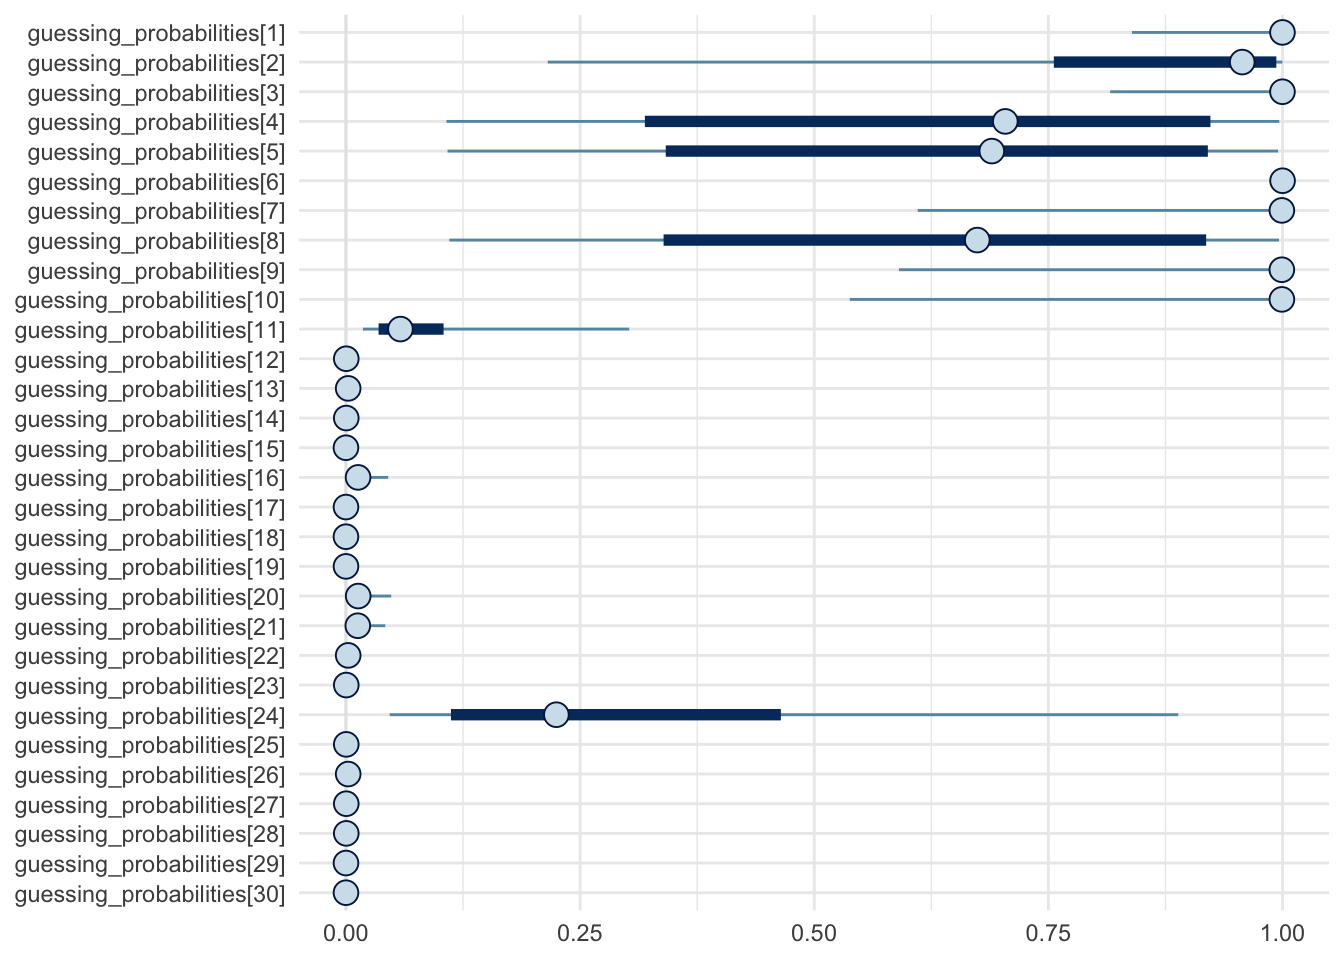
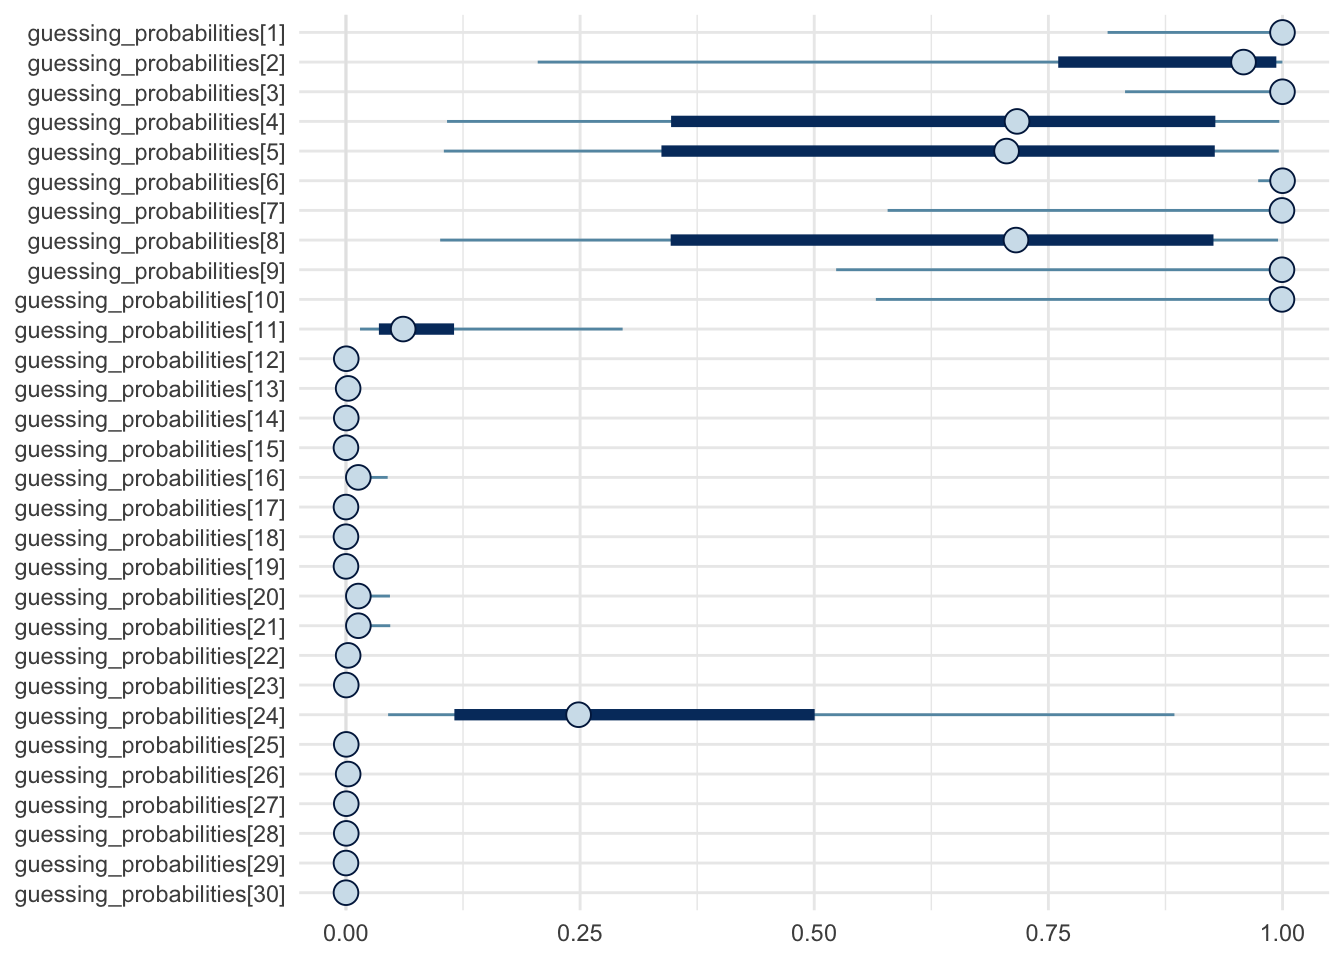
Built site for gh-pages

diff --git a/w10_modelling/topic07_mixtures.html b/w10_modelling/topic07_mixtures.html
@@ -1093,19 +1093,22 @@ is the correct answer.
 <span id="annotated-cell-3-7"><a href="#annotated-cell-3-7" aria-hidden="true" tabindex="-1"></a>}</span>
 <span id="annotated-cell-3-8"><a href="#annotated-cell-3-8" aria-hidden="true" tabindex="-1"></a></span>
 <span id="annotated-cell-3-9"><a href="#annotated-cell-3-9" aria-hidden="true" tabindex="-1"></a><span class="kw">transformed parameters</span> {</span>
-<a class="code-annotation-anchor" data-target-cell="annotated-cell-3" data-target-annotation="1" onclick="event.preventDefault();">1</a><span id="annotated-cell-3-10" class="code-annotation-target"><a href="#annotated-cell-3-10" aria-hidden="true" tabindex="-1"></a>  <span class="dt">real</span> complete_likelihood_guessing      = <span class="fl">1.0</span>/<span class="dv">3</span> * exp(binomial_lpmf(score | <span class="dv">20</span>, <span class="fl">0.5</span>));</span>
-<a class="code-annotation-anchor" data-target-cell="annotated-cell-3" data-target-annotation="2" onclick="event.preventDefault();">2</a><span id="annotated-cell-3-11" class="code-annotation-target"><a href="#annotated-cell-3-11" aria-hidden="true" tabindex="-1"></a>  <span class="dt">real</span> complete_likelihood_non_guessing  = <span class="fl">2.0</span>/<span class="dv">3</span> * exp(binomial_lpmf(score | <span class="dv">20</span>, ability));</span>
-<span id="annotated-cell-3-12"><a href="#annotated-cell-3-12" aria-hidden="true" tabindex="-1"></a>}</span>
-<span id="annotated-cell-3-13"><a href="#annotated-cell-3-13" aria-hidden="true" tabindex="-1"></a></span>
-<span id="annotated-cell-3-14"><a href="#annotated-cell-3-14" aria-hidden="true" tabindex="-1"></a><span class="kw">model</span> {</span>
-<a class="code-annotation-anchor" data-target-cell="annotated-cell-3" data-target-annotation="3" onclick="event.preventDefault();">3</a><span id="annotated-cell-3-15" class="code-annotation-target"><a href="#annotated-cell-3-15" aria-hidden="true" tabindex="-1"></a>  ability ~ uniform(<span class="dv">0</span>, <span class="dv">1</span>);</span>
-<a class="code-annotation-anchor" data-target-cell="annotated-cell-3" data-target-annotation="4" onclick="event.preventDefault();">4</a><span id="annotated-cell-3-16" class="code-annotation-target"><a href="#annotated-cell-3-16" aria-hidden="true" tabindex="-1"></a>  <span class="kw">target +=</span> log(complete_likelihood_guessing + complete_likelihood_non_guessing);</span>
-<span id="annotated-cell-3-17"><a href="#annotated-cell-3-17" aria-hidden="true" tabindex="-1"></a>}</span>
-<span id="annotated-cell-3-18"><a href="#annotated-cell-3-18" aria-hidden="true" tabindex="-1"></a></span>
-<span id="annotated-cell-3-19"><a href="#annotated-cell-3-19" aria-hidden="true" tabindex="-1"></a><span class="kw">generated quantities</span> {</span>
-<a class="code-annotation-anchor" data-target-cell="annotated-cell-3" data-target-annotation="5" onclick="event.preventDefault();">5</a><span id="annotated-cell-3-20" class="code-annotation-target"><a href="#annotated-cell-3-20" aria-hidden="true" tabindex="-1"></a>  <span class="dt">real</span> guessing_probability =</span>
-<span id="annotated-cell-3-21"><a href="#annotated-cell-3-21" aria-hidden="true" tabindex="-1"></a>    complete_likelihood_guessing / (complete_likelihood_guessing + complete_likelihood_non_guessing);</span>
-<span id="annotated-cell-3-22"><a href="#annotated-cell-3-22" aria-hidden="true" tabindex="-1"></a>}</span><div class="code-annotation-gutter-bg"></div><div class="code-annotation-gutter"></div></code><button title="Copy to Clipboard" class="code-copy-button"><i class="bi"></i></button></pre></div>
+<a class="code-annotation-anchor" data-target-cell="annotated-cell-3" data-target-annotation="1" onclick="event.preventDefault();">1</a><span id="annotated-cell-3-10" class="code-annotation-target"><a href="#annotated-cell-3-10" aria-hidden="true" tabindex="-1"></a>  <span class="dt">real</span> complete_likelihood_guessing</span>
+<span id="annotated-cell-3-11"><a href="#annotated-cell-3-11" aria-hidden="true" tabindex="-1"></a>    = <span class="fl">1.0</span>/<span class="dv">3</span> * exp(binomial_lpmf(score | <span class="dv">20</span>, <span class="fl">0.5</span>)); </span>
+<a class="code-annotation-anchor" data-target-cell="annotated-cell-3" data-target-annotation="2" onclick="event.preventDefault();">2</a><span id="annotated-cell-3-12" class="code-annotation-target"><a href="#annotated-cell-3-12" aria-hidden="true" tabindex="-1"></a>  <span class="dt">real</span> complete_likelihood_non_guessing</span>
+<span id="annotated-cell-3-13"><a href="#annotated-cell-3-13" aria-hidden="true" tabindex="-1"></a>    = <span class="fl">2.0</span>/<span class="dv">3</span> * exp(binomial_lpmf(score | <span class="dv">20</span>, ability)); </span>
+<span id="annotated-cell-3-14"><a href="#annotated-cell-3-14" aria-hidden="true" tabindex="-1"></a>}</span>
+<span id="annotated-cell-3-15"><a href="#annotated-cell-3-15" aria-hidden="true" tabindex="-1"></a></span>
+<span id="annotated-cell-3-16"><a href="#annotated-cell-3-16" aria-hidden="true" tabindex="-1"></a><span class="kw">model</span> {</span>
+<a class="code-annotation-anchor" data-target-cell="annotated-cell-3" data-target-annotation="3" onclick="event.preventDefault();">3</a><span id="annotated-cell-3-17" class="code-annotation-target"><a href="#annotated-cell-3-17" aria-hidden="true" tabindex="-1"></a>  ability ~ uniform(<span class="dv">0</span>, <span class="dv">1</span>);</span>
+<a class="code-annotation-anchor" data-target-cell="annotated-cell-3" data-target-annotation="4" onclick="event.preventDefault();">4</a><span id="annotated-cell-3-18" class="code-annotation-target"><a href="#annotated-cell-3-18" aria-hidden="true" tabindex="-1"></a>  <span class="kw">target +=</span></span>
+<span id="annotated-cell-3-19"><a href="#annotated-cell-3-19" aria-hidden="true" tabindex="-1"></a>    log(complete_likelihood_guessing + complete_likelihood_non_guessing); </span>
+<span id="annotated-cell-3-20"><a href="#annotated-cell-3-20" aria-hidden="true" tabindex="-1"></a>}</span>
+<span id="annotated-cell-3-21"><a href="#annotated-cell-3-21" aria-hidden="true" tabindex="-1"></a></span>
+<span id="annotated-cell-3-22"><a href="#annotated-cell-3-22" aria-hidden="true" tabindex="-1"></a><span class="kw">generated quantities</span> {</span>
+<a class="code-annotation-anchor" data-target-cell="annotated-cell-3" data-target-annotation="5" onclick="event.preventDefault();">5</a><span id="annotated-cell-3-23" class="code-annotation-target"><a href="#annotated-cell-3-23" aria-hidden="true" tabindex="-1"></a>  <span class="dt">real</span> guessing_probability =</span>
+<span id="annotated-cell-3-24"><a href="#annotated-cell-3-24" aria-hidden="true" tabindex="-1"></a>    complete_likelihood_guessing / (complete_likelihood_guessing + complete_likelihood_non_guessing);</span>
+<span id="annotated-cell-3-25"><a href="#annotated-cell-3-25" aria-hidden="true" tabindex="-1"></a>}</span><div class="code-annotation-gutter-bg"></div><div class="code-annotation-gutter"></div></code><button title="Copy to Clipboard" class="code-copy-button"><i class="bi"></i></button></pre></div>
 <div class="cell-annotation">
 <dl class="code-annotation-container-grid">
 <dt data-target-cell="annotated-cell-3" data-target-annotation="1">1</dt>
@@ -1114,19 +1117,19 @@ is the correct answer.
 </dd>
 <dt data-target-cell="annotated-cell-3" data-target-annotation="2">2</dt>
 <dd>
-<span data-code-cell="annotated-cell-3" data-code-lines="11" data-code-annotation="2">Stan statement 2</span>
+<span data-code-cell="annotated-cell-3" data-code-lines="12" data-code-annotation="2">Stan statement 2</span>
 </dd>
 <dt data-target-cell="annotated-cell-3" data-target-annotation="3">3</dt>
 <dd>
-<span data-code-cell="annotated-cell-3" data-code-lines="15" data-code-annotation="3">Stan statement 3</span>
+<span data-code-cell="annotated-cell-3" data-code-lines="17" data-code-annotation="3">Stan statement 3</span>
 </dd>
 <dt data-target-cell="annotated-cell-3" data-target-annotation="4">4</dt>
 <dd>
-<span data-code-cell="annotated-cell-3" data-code-lines="16" data-code-annotation="4">Stan statement 4</span>
+<span data-code-cell="annotated-cell-3" data-code-lines="18" data-code-annotation="4">Stan statement 4</span>
 </dd>
 <dt data-target-cell="annotated-cell-3" data-target-annotation="5">5</dt>
 <dd>
-<span data-code-cell="annotated-cell-3" data-code-lines="20" data-code-annotation="5">Stan statement 5</span>
+<span data-code-cell="annotated-cell-3" data-code-lines="23" data-code-annotation="5">Stan statement 5</span>
 </dd>
 </dl>
 </div>
@@ -1141,11 +1144,11 @@ is the correct answer.
 <li>Let us look at the part in red, and see how we can compute it at every MCMC iteration based on the current value of <span class="math inline">\(A^{(m)}\)</span>…
 <ul>
 <li>Using the fact the mean of a Bernoulli is the probability that it takes value 1: <span class="math display">\[\mathbb{E}[G | A, Y] = \mathbb{P}(G = 1 | A, Y).\]</span></li>
-<li>By Bayes rule: <span class="math display">\[\mathbb{P}(G = 1 | A, Y) = \frac{\mathbb{P}(G = 1 | A, Y)}{\mathbb{P}(G = 0 | A, Y) + \mathbb{P}(G = 1 | A, Y)}.\]</span></li>
+<li>By Bayes rule (noting that a conditional probability like <span class="math inline">\(\mathbb{P}(\cdot | A)\)</span> <a href="../w01_discrete_inference/topic07_conditional.html#a-conditional-probability-is-a-probability">is a probability</a>): <span class="math display">\[\mathbb{P}(G = 1 | A, Y = y) = \frac{\mathbb{P}(G = 1, Y = y | A)}{\mathbb{P}(G = 0, Y = y | A) + \mathbb{P}(G = 1, Y = y | A)}.\]</span></li>
 <li>This is what gets computed in statement ⑤ in the above Stan code.</li>
 </ul></li>
-<li>Now, recall from the <a href="../w08_mcmc1/topic05_mcmc_consistency.html">LLN for Markov chains</a> gives us condition so that for a test function <span class="math inline">\(h\)</span>, we have that the Monte Carlo samples, <span class="math inline">\(A^{(1)}, A^{(2)}, \dots, A^{(M)}\)</span> satisfy, <span class="math display">\[\frac{1}{M} \sum_{m=1}^M h(A^{(m)}) \to \mathbb{E}[h(A) | Y],\]</span> with probability one.</li>
-<li>Therefore from taking <span class="math inline">\(h(a) = \mathbb{P}(G = 1 | A = a, Y)\)</span>, we obtain, <span class="math display">\[\frac{1}{M} \sum_{m=1}^M \mathbb{P}(G = 1 | A^{(m)}, Y = y) \to \mathbb{E}[G | Y],\]</span> with probability one.</li>
+<li>Now, recall from the <a href="../w08_mcmc1/topic05_mcmc_consistency.html">LLN for Markov chains</a> gives us condition so that for a test function <span class="math inline">\(h\)</span>, we have that the Monte Carlo samples, <span class="math inline">\(A^{(1)}, A^{(2)}, \dots, A^{(M)}\)</span> satisfy, <span class="math display">\[\frac{1}{M} \sum_{m=1}^M h(A^{(m)}) \to \mathbb{E}[h(A) | Y = y],\]</span> with probability one.</li>
+<li>Therefore from taking <span class="math inline">\(h(A^{(m)}) = \mathbb{P}(G = 1 | A^{(m)}, Y = y)\)</span>, we obtain, <span class="math display">\[\frac{1}{M} \sum_{m=1}^M \mathbb{P}(G = 1 | A^{(m)}, Y = y) \to \mathbb{E}[G | Y = y],\]</span> with probability one.</li>
 </ul>
 </section>
 <section id="testing-the-model" class="level3">
@@ -1236,24 +1239,28 @@ Click for answer
 <span id="cb7-14"><a href="#cb7-14" aria-hidden="true" tabindex="-1"></a>  <span class="dt">vector</span>[n_students] complete_loglikelihood_guessing; </span>
 <span id="cb7-15"><a href="#cb7-15" aria-hidden="true" tabindex="-1"></a>  <span class="dt">vector</span>[n_students] complete_loglikelihood_non_guessing; </span>
 <span id="cb7-16"><a href="#cb7-16" aria-hidden="true" tabindex="-1"></a>  <span class="cf">for</span> (i <span class="cf">in</span> <span class="dv">1</span>:n_students) {</span>
-<span id="cb7-17"><a href="#cb7-17" aria-hidden="true" tabindex="-1"></a>    complete_loglikelihood_guessing[i]     = log(fraction_guessing)    + binomial_lpmf(scores[i] | <span class="dv">20</span>, <span class="fl">0.5</span>); </span>
-<span id="cb7-18"><a href="#cb7-18" aria-hidden="true" tabindex="-1"></a>    complete_loglikelihood_non_guessing[i] = log1p(-fraction_guessing) + binomial_lpmf(scores[i] | <span class="dv">20</span>, abilities[i]);</span>
-<span id="cb7-19"><a href="#cb7-19" aria-hidden="true" tabindex="-1"></a>  }</span>
-<span id="cb7-20"><a href="#cb7-20" aria-hidden="true" tabindex="-1"></a>}</span>
-<span id="cb7-21"><a href="#cb7-21" aria-hidden="true" tabindex="-1"></a></span>
-<span id="cb7-22"><a href="#cb7-22" aria-hidden="true" tabindex="-1"></a><span class="kw">model</span> {</span>
-<span id="cb7-23"><a href="#cb7-23" aria-hidden="true" tabindex="-1"></a>  fraction_guessing ~ uniform(<span class="dv">0</span>, <span class="dv">1</span>);</span>
-<span id="cb7-24"><a href="#cb7-24" aria-hidden="true" tabindex="-1"></a>  non_guessing_population_mean ~ uniform(<span class="dv">0</span>, <span class="dv">1</span>);</span>
-<span id="cb7-25"><a href="#cb7-25" aria-hidden="true" tabindex="-1"></a>  non_guessing_population_spread ~ exponential(<span class="fl">1.0</span>/<span class="dv">100</span>);</span>
-<span id="cb7-26"><a href="#cb7-26" aria-hidden="true" tabindex="-1"></a>  <span class="cf">for</span> (i <span class="cf">in</span> <span class="dv">1</span>:n_students) {</span>
-<span id="cb7-27"><a href="#cb7-27" aria-hidden="true" tabindex="-1"></a>    abilities[i] ~ beta_proportion(non_guessing_population_mean, non_guessing_population_spread);</span>
-<span id="cb7-28"><a href="#cb7-28" aria-hidden="true" tabindex="-1"></a>    <span class="kw">target +=</span> log_sum_exp(complete_loglikelihood_guessing[i], complete_loglikelihood_non_guessing[i]);</span>
-<span id="cb7-29"><a href="#cb7-29" aria-hidden="true" tabindex="-1"></a>  }</span>
-<span id="cb7-30"><a href="#cb7-30" aria-hidden="true" tabindex="-1"></a>}</span>
-<span id="cb7-31"><a href="#cb7-31" aria-hidden="true" tabindex="-1"></a></span>
-<span id="cb7-32"><a href="#cb7-32" aria-hidden="true" tabindex="-1"></a><span class="kw">generated quantities</span> {</span>
-<span id="cb7-33"><a href="#cb7-33" aria-hidden="true" tabindex="-1"></a>  <span class="dt">vector</span>[n_students] guessing_probabilities = inv_logit(complete_loglikelihood_guessing - complete_loglikelihood_non_guessing);</span>
-<span id="cb7-34"><a href="#cb7-34" aria-hidden="true" tabindex="-1"></a>}</span></code><button title="Copy to Clipboard" class="code-copy-button"><i class="bi"></i></button></pre></div>
+<span id="cb7-17"><a href="#cb7-17" aria-hidden="true" tabindex="-1"></a>    complete_loglikelihood_guessing[i]     </span>
+<span id="cb7-18"><a href="#cb7-18" aria-hidden="true" tabindex="-1"></a>      = log(fraction_guessing) + binomial_lpmf(scores[i] | <span class="dv">20</span>, <span class="fl">0.5</span>); </span>
+<span id="cb7-19"><a href="#cb7-19" aria-hidden="true" tabindex="-1"></a>    complete_loglikelihood_non_guessing[i] </span>
+<span id="cb7-20"><a href="#cb7-20" aria-hidden="true" tabindex="-1"></a>      = log1p(-fraction_guessing) + binomial_lpmf(scores[i] | <span class="dv">20</span>, abilities[i]);</span>
+<span id="cb7-21"><a href="#cb7-21" aria-hidden="true" tabindex="-1"></a>  }</span>
+<span id="cb7-22"><a href="#cb7-22" aria-hidden="true" tabindex="-1"></a>}</span>
+<span id="cb7-23"><a href="#cb7-23" aria-hidden="true" tabindex="-1"></a></span>
+<span id="cb7-24"><a href="#cb7-24" aria-hidden="true" tabindex="-1"></a><span class="kw">model</span> {</span>
+<span id="cb7-25"><a href="#cb7-25" aria-hidden="true" tabindex="-1"></a>  fraction_guessing ~ uniform(<span class="dv">0</span>, <span class="dv">1</span>);</span>
+<span id="cb7-26"><a href="#cb7-26" aria-hidden="true" tabindex="-1"></a>  non_guessing_population_mean ~ uniform(<span class="dv">0</span>, <span class="dv">1</span>);</span>
+<span id="cb7-27"><a href="#cb7-27" aria-hidden="true" tabindex="-1"></a>  non_guessing_population_spread ~ exponential(<span class="fl">1.0</span>/<span class="dv">100</span>);</span>
+<span id="cb7-28"><a href="#cb7-28" aria-hidden="true" tabindex="-1"></a>  <span class="cf">for</span> (i <span class="cf">in</span> <span class="dv">1</span>:n_students) {</span>
+<span id="cb7-29"><a href="#cb7-29" aria-hidden="true" tabindex="-1"></a>    abilities[i] ~ beta_proportion(non_guessing_population_mean, non_guessing_population_spread);</span>
+<span id="cb7-30"><a href="#cb7-30" aria-hidden="true" tabindex="-1"></a>    <span class="kw">target +=</span> </span>
+<span id="cb7-31"><a href="#cb7-31" aria-hidden="true" tabindex="-1"></a>      log_sum_exp(complete_loglikelihood_guessing[i], complete_loglikelihood_non_guessing[i]);</span>
+<span id="cb7-32"><a href="#cb7-32" aria-hidden="true" tabindex="-1"></a>  }</span>
+<span id="cb7-33"><a href="#cb7-33" aria-hidden="true" tabindex="-1"></a>}</span>
+<span id="cb7-34"><a href="#cb7-34" aria-hidden="true" tabindex="-1"></a></span>
+<span id="cb7-35"><a href="#cb7-35" aria-hidden="true" tabindex="-1"></a><span class="kw">generated quantities</span> {</span>
+<span id="cb7-36"><a href="#cb7-36" aria-hidden="true" tabindex="-1"></a>  <span class="dt">vector</span>[n_students] guessing_probabilities = inv_logit(complete_loglikelihood_guessing - complete_loglikelihood_non_guessing);</span>
+<span id="cb7-37"><a href="#cb7-37" aria-hidden="true" tabindex="-1"></a>  <span class="dt">real</span> predictive_score_non_guessing = <span class="dv">20</span> * beta_proportion_rng(non_guessing_population_mean, non_guessing_population_spread);</span>
+<span id="cb7-38"><a href="#cb7-38" aria-hidden="true" tabindex="-1"></a>}</span></code><button title="Copy to Clipboard" class="code-copy-button"><i class="bi"></i></button></pre></div>
 </div>
 <div class="cell">
 <div class="sourceCode cell-code" id="cb8"><pre class="sourceCode r code-with-copy"><code class="sourceCode r"><span id="cb8-1"><a href="#cb8-1" aria-hidden="true" tabindex="-1"></a>fit <span class="ot">=</span> <span class="fu">sampling</span>(</span>
@@ -1275,6 +1282,19 @@ Click for answer
 <div>
 <figure class="figure">
 <p><img src="topic07_mixtures_files/figure-html/unnamed-chunk-8-1.png" class="img-fluid figure-img" width="672"></p>
+</figure>
+</div>
+</div>
+</div>
+<p><strong>Predictive score distribution:</strong> for the non guessing sub-population…</p>
+<div class="cell">
+<div class="sourceCode cell-code" id="cb10"><pre class="sourceCode r code-with-copy"><code class="sourceCode r"><span id="cb10-1"><a href="#cb10-1" aria-hidden="true" tabindex="-1"></a><span class="fu">mcmc_areas_ridges</span>(fit, <span class="at">regex_pars =</span> <span class="fu">c</span>(<span class="st">"predictive_score_non_guessing*"</span>)) <span class="sc">+</span> </span>
+<span id="cb10-2"><a href="#cb10-2" aria-hidden="true" tabindex="-1"></a>  <span class="fu">theme_minimal</span>() <span class="sc">+</span> </span>
+<span id="cb10-3"><a href="#cb10-3" aria-hidden="true" tabindex="-1"></a>  <span class="fu">scale_x_continuous</span>(<span class="at">limits =</span> <span class="fu">c</span>(<span class="dv">0</span>, <span class="dv">20</span>)) </span></code><button title="Copy to Clipboard" class="code-copy-button"><i class="bi"></i></button></pre></div>
+<div class="cell-output-display">
+<div>
+<figure class="figure">
+<p><img src="topic07_mixtures_files/figure-html/unnamed-chunk-9-1.png" class="img-fluid figure-img" width="672"></p>
 </figure>
 </div>
 </div>
